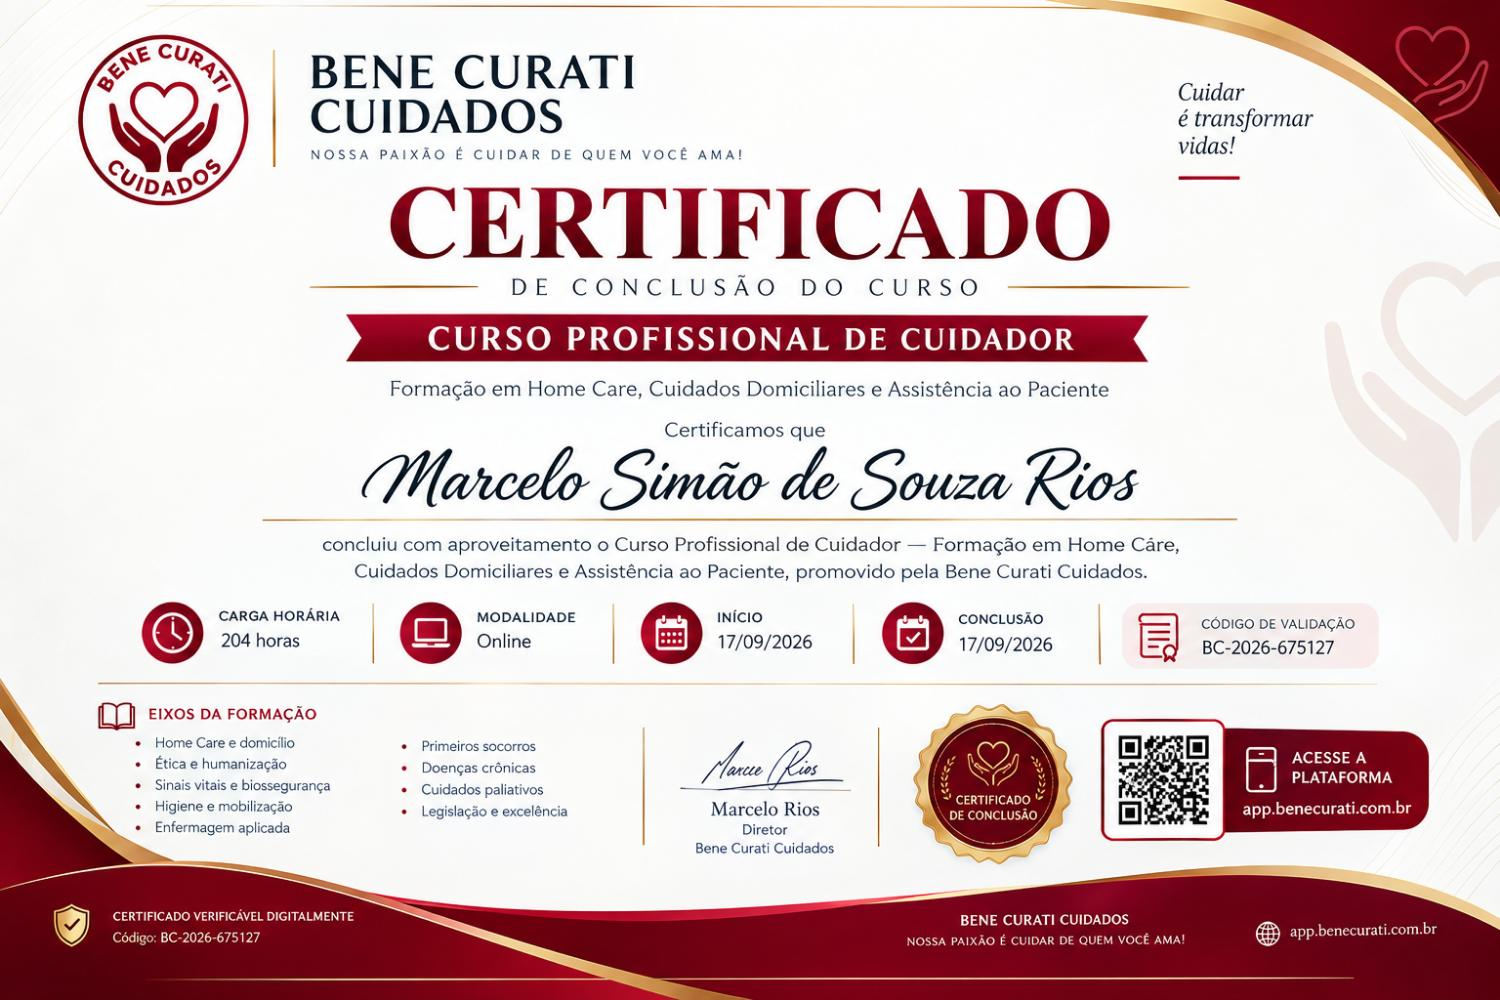
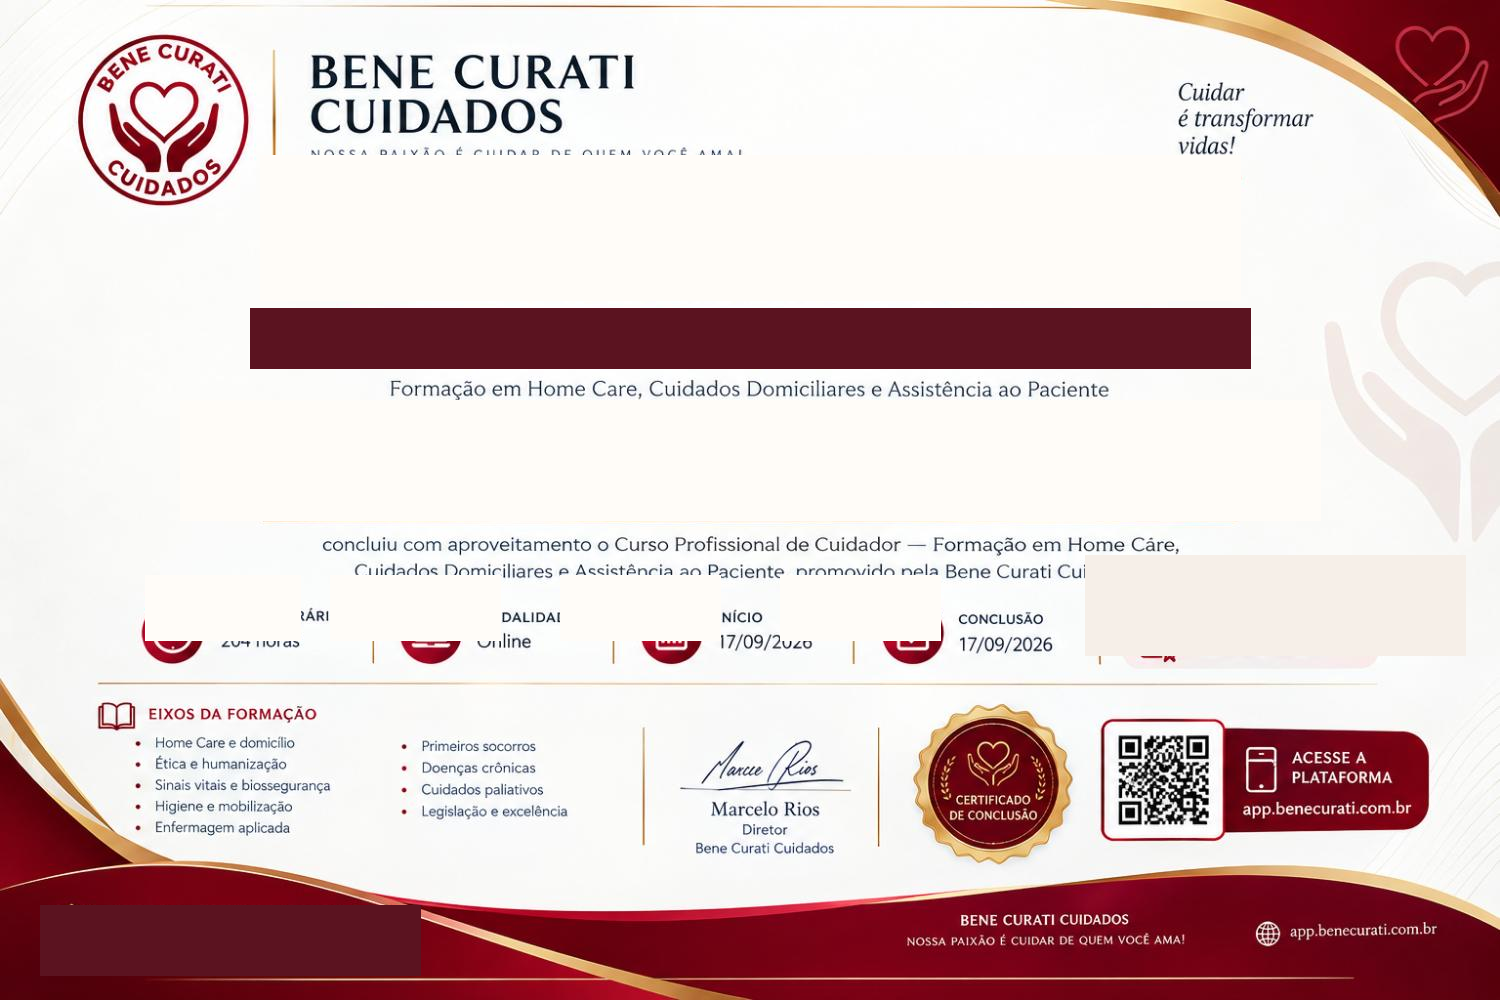
fix: modalidade EAD no certificado e titulos sem sobreposicao

diff --git a/src/app/(student)/certificado/visualizar/page.tsx b/src/app/(student)/certificado/visualizar/page.tsx
@@ -79,7 +79,7 @@ export default async function VisualizarCertificadoPage() {
 
   const boxes = [
     { label: "Carga horária", value: `${totalHoras} horas`, hint: `${horasTeoricas}h + ${horasPraticas}h prática` },
-    { label: "Modalidade", value: "Online", hint: "Teórica e prática" },
+    { label: "Modalidade", value: "EAD", hint: "Teórica e prática" },
     { label: "Início", value: formatDate(started), hint: "" },
     { label: "Conclusão", value: formatDate(certificate.issuedAt), hint: "" },
     { label: "CNPJ", value: "60.725.201/0001-88", hint: "" },
@@ -146,44 +146,46 @@ export default async function VisualizarCertificadoPage() {
 
       <div className="stage mx-auto relative overflow-hidden bg-white shadow-2xl">
         {/* eslint-disable-next-line @next/next/no-img-element */}
-        <img src="/certificado-frente-modelo.png" alt="" className="absolute inset-0 w-full h-full object-cover" />
+        <img src="/certificado-frente-modelo.png" alt="" className="absolute inset-0 w-full h-full object-contain" />
 
-        <div className="absolute left-[16%] right-[16%] top-[31.6%] h-[6.2%] bg-[#5b1320] flex items-center justify-center">
-          <p className="text-white text-[13px] font-bold tracking-[0.18em] uppercase">
+        <div className="absolute left-[18%] right-[18%] top-[16.5%] text-center">
+          <p className="text-[28px] leading-none font-black tracking-wide text-[#5b1320] uppercase">
+            Certificado de conclusão
+          </p>
+        </div>
+
+        <div className="absolute left-[17%] right-[17%] top-[31.2%] h-[6.8%] flex items-center justify-center">
+          <p className="text-white text-[18px] font-black tracking-[0.12em] uppercase">
             Curso de Cuidador Profissional
           </p>
         </div>
 
-        <div className="absolute left-[12%] right-[12%] top-[43.2%] h-[8.5%] flex items-center justify-center bg-white/92">
-          <p className="text-[32px] leading-none text-[#1a1a1a] text-center px-2" style={{ fontFamily: "Georgia, 'Times New Roman', serif", fontStyle: "italic" }}>
+        <div className="absolute left-[12%] right-[12%] top-[42.5%] h-[9%] flex items-center justify-center">
+          <p className="text-[30px] leading-none text-[#1a1a1a] text-center px-2" style={{ fontFamily: "Georgia, 'Times New Roman', serif", fontStyle: "italic" }}>
             {certificate.user.name}
           </p>
         </div>
 
-        <div className="absolute left-[8.5%] top-[57.8%] w-[14%] h-[6.5%] flex flex-col justify-center bg-white">
-          <p className="text-[11px] font-extrabold text-[#1a1a1a] leading-tight">{totalHoras} horas</p>
-          <p className="text-[7px] text-gray-500">{horasTeoricas}h + {horasPraticas}h prática</p>
+        <div className="absolute left-[9%] top-[58%] w-[13%] h-[6%] flex flex-col justify-center">
+          <p className="text-[12px] font-extrabold text-[#1a1a1a] leading-tight">{totalHoras} horas</p>
+          <p className="text-[7px] text-gray-500">{horasTeoricas}h + {horasPraticas}h</p>
         </div>
-        <div className="absolute left-[40.2%] top-[57.8%] w-[11%] h-[6.5%] flex items-center bg-white">
+        <div className="absolute left-[24.5%] top-[58.5%] w-[10%] h-[5%] flex items-center">
+          <p className="text-[13px] font-extrabold text-[#1a1a1a]">EAD</p>
+        </div>
+        <div className="absolute left-[40%] top-[58.5%] w-[11%] h-[5%] flex items-center">
           <p className="text-[12px] font-extrabold text-[#1a1a1a]">{formatDate(started)}</p>
         </div>
-        <div className="absolute left-[56.5%] top-[57.8%] w-[11%] h-[6.5%] flex items-center bg-white">
+        <div className="absolute left-[53.5%] top-[58.5%] w-[11%] h-[5%] flex items-center">
           <p className="text-[12px] font-extrabold text-[#1a1a1a]">{formatDate(certificate.issuedAt)}</p>
         </div>
-        <div className="absolute left-[73%] top-[56.6%] w-[19%] h-[8%] flex flex-col justify-center bg-[#f6efe8] rounded-sm px-2">
+        <div className="absolute left-[73.5%] top-[56.8%] w-[18%] h-[7.5%] flex flex-col justify-center px-1">
           <p className="text-[8px] uppercase tracking-wider text-[#5b1320] font-bold">CNPJ</p>
           <p className="text-[11px] font-extrabold text-[#1a1a1a] leading-tight">60.725.201/0001-88</p>
         </div>
 
-        <div className="absolute left-[8.5%] bottom-[6.2%] bg-[#5b1320] text-white px-2 py-1 rounded-sm">
-          <p className="text-[8px] uppercase tracking-wide font-semibold">Certificado verificável digitalmente</p>
-          <p className="text-[11px] font-mono font-bold">Código: {certificate.code}</p>
-        </div>
-
-        <div className="absolute left-[18%] right-[18%] bottom-[11.5%] text-center bg-white/85 py-0.5">
-          <p className="text-[8px] uppercase tracking-wide text-gray-700">
-            Embasamento legal: Decreto Presidencial nº 5.154 e Resolução CNE nº 04/99 do MEC.
-          </p>
+        <div className="absolute left-[8.2%] bottom-[6.4%]">
+          <p className="text-[10px] font-mono font-bold text-white">Código: {certificate.code}</p>
         </div>
       </div>
 
